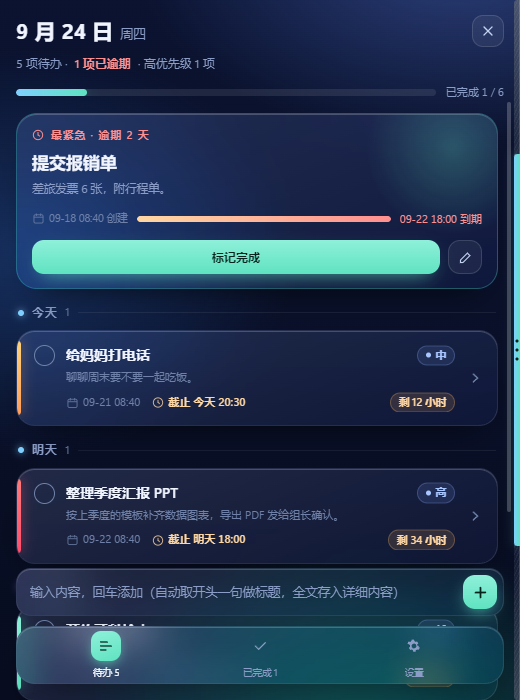
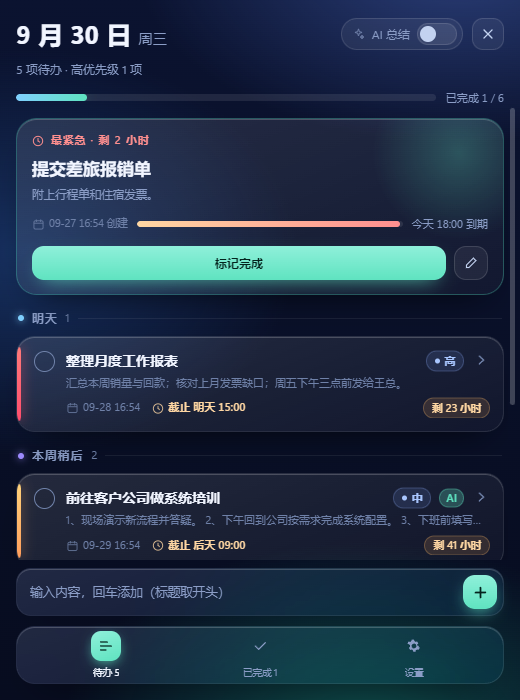
README 跟上 2.2.0：补 AI 总结一节，截图全部重拍
旧图还是卡片带遮罩、提醒弹窗没有详细内容那一版；这次连提前天数可改的新设置行
一起拍进来，另加一张 AI 总结设置展开图。顺手改掉「没有任何联网行为」的说法
（现在只有开了 AI 才会连你自己填的地址），悬停推出时间 0.15s → 实测 0.12s。

diff --git a/README.md b/README.md
@@ -2,7 +2,7 @@
 
 一个贴在屏幕边上的待办清单。
 
-不用安装、不用注册账号、不联网：把文件夹放到哪，软件就在哪跑。平时把它拖到屏幕左边、右边或者上边，它会缩成一条 6 像素的细边藏起来；鼠标推到那条边上，界面就滑出来，鼠标离开又收回去。想关的时候点 × 只是把它收进托盘，界面上不会再占地方，任务栏里也不会留按钮。
+不用安装、不用注册账号、默认不联网：把文件夹放到哪，软件就在哪跑。平时把它拖到屏幕左边、右边或者上边，它会缩成一条 6 像素的细边藏起来；鼠标推到那条边上，界面就滑出来，鼠标离开又收回去。想关的时候点 × 只是把它收进托盘，界面上不会再占地方，任务栏里也不会留按钮。
 
 > 只给 Windows 10 / 11 用。功能很少，但每天都在手边，这比功能多更重要。
 
@@ -21,7 +21,7 @@
 ![卡片展开编辑](docs/screenshots/02-card-open.png)
 ![日期选择](docs/screenshots/03-date-picker.png)
 
-设置页一条条平铺，点开设哪一项。
+设置页一条条平铺，点开设哪一项：外观与窗口、截止提醒（高 / 中 / 低各自提前几天）、AI 总结、桌面吸附、数据与目录、悬浮球、开机自启。
 
 <table>
 <tr>
@@ -29,6 +29,10 @@
 <td width="50%"><img src="docs/screenshots/05-settings-light.png" alt="设置页（浅色）"></td>
 </tr>
 </table>
+
+「AI 总结」是可选功能，默认关着。打开后新添加的那段话会被整理成一句标题加几点内容；接入点和密钥自己填，密钥只存在本机那个文件里。
+
+![AI 总结设置](docs/screenshots/07-settings-ai.png)
 
 到时间会单独弹窗提醒：三件以内一件一件弹，四件以上合成一张清单。
 
@@ -52,7 +56,7 @@
 日常操作只有三个：
 
 - **拖到屏幕边**：按住顶部空白处，把窗口甩到左 / 右 / 上任意一条边附近，松手就吸住了，只留一条细边。
-- **推出来**：鼠标移到那条细边上（必须真的压到边上，不留误触空间），约 0.15 秒滑出完整界面；鼠标移出界面，它自己收回去。
+- **推出来**：鼠标移到那条细边上（必须真的压到边上，不留误触空间），约 0.12 秒滑出完整界面；鼠标移出界面，它自己收回去。
 - **收进托盘**：点 ×。想真正退出，右键托盘图标选退出。
 
 窗口大小随便拖，界面会跟着宽度重新排版；吸在边上时也能改大小，改完仍然贴着边。
@@ -65,19 +69,20 @@
 TodoManager/
 ├── TodoManager.exe
 ├── data/todos.json      ← 你的待办
-└── config/settings.json ← 窗口位置、主题、吸附状态
+└── config/settings.json ← 窗口位置、主题、吸附状态、提醒天数、AI 配置
 ```
 
 - 换电脑：整个文件夹拷走，或者只拷 `data` 和 `config` 两个文件夹放进新版本里。
 - 备份：复制 `data/todos.json` 就够了。
-- 没有任何联网行为，不写注册表安装项（唯一的例外是「开机自启」开关，它只往当前用户的启动项里写一个路径，关掉即删）。
+- 默认没有任何联网行为。只有你在设置里打开「AI 总结」并填了自己的接入点和密钥，它才会把你新写的那段话发给你填的那个地址；密钥明文存在本机 `config/settings.json`，关掉开关就一次请求都不发。不写注册表安装项（唯一的例外是「开机自启」开关，它只往当前用户的启动项里写一个路径，关掉即删）。
 
 ## 功能清单
 
 | | |
 | --- | --- |
 | 任务 | 标题 + 详细内容分开填；优先级高 / 中 / 低；截止日期可留空；按「今天 / 明天 / 本周更早」自动分组 |
-| 提醒 | 按优先级提前弹窗（高 3 天 / 中 2 天 / 低 1 天），逾期每次开机继续提醒，直到你点「确定」 |
+| 提醒 | 按优先级提前弹窗，默认高 3 天 / 中 2 天 / 低 1 天，三档各自能在设置里改（调到 0 就只在到期当天和逾期后提醒）；逾期每次开机继续提醒，直到你点「确定」 |
+| AI 总结 | 可选，默认关。开着时新添加的那段话会整理成一句标题加几点详细内容，卡片上标一枚「AI 已整理」；接入点和密钥自带（OpenAI 兼容 / DeepSeek / 智谱 / Kimi / 通义 / 硅基流动 / Ollama / 自定义），关掉完全按本地规则添加，不发请求 |
 | 窗口 | 无边框、免安装、可拖拽缩放、左右上三边吸附收起、记住上次的位置和大小、窗口透明度可调 |
 | 界面 | 深色 / 浅色主题、响应式排版（窄窗口自动换布局） |
 | 托盘 | 点 × 收进托盘；托盘菜单可新建、打开设置、退出 |
